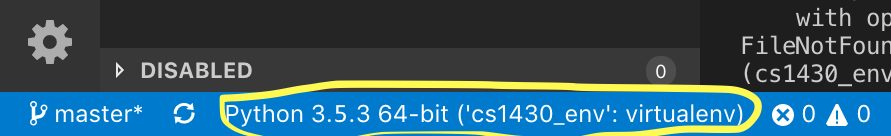
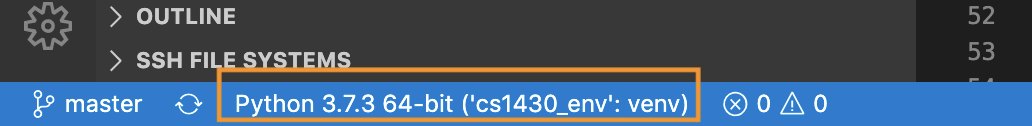
updated python tutorial

diff --git a/Python_Tutorial.tex b/Python_Tutorial.tex
@@ -2,8 +2,8 @@
 %
 % CSCI 1430 Python Tutorial
 %
-% This is a LaTeX document. LaTeX is a markup language for producing 
-% documents. Your first task is to compile this into a PDF document. 
+% This is a LaTeX document. LaTeX is a markup language for producing
+% documents. Your first task is to compile this into a PDF document.
 % 
 % TO COMPILE:
 %  pdflatex thisfile.tex
@@ -13,7 +13,7 @@
 % - Departmental machines have one installed.
 % - Personal laptops (all common OS): www.latex-project.org/get/
 %
-% If you need help with LaTeX, please come to office hours. 
+% If you need help with LaTeX, please come to office hours.
 % Or, there is plenty of help online:
 % https://en.wikibooks.org/wiki/LaTeX
 %
@@ -38,6 +38,7 @@
 \usepackage{fancyhdr}
 \usepackage{microtype}
 \usepackage{times}
+\usepackage{hyperref}
 % A good format for python code https://github.com/olivierverdier/python-latex-highlighting
 \usepackage{pythonhighlight}
 
@@ -74,7 +75,7 @@ The course uses Python as our language. As software library installation and man
 
 \subsection{Python version numbers}
 
-(Spring 2019) The class supports Python 3.5.3, which is the version installed on the CS department machines. Our Python virtual environment uses Python 3.5.3. Our Gradescope autograder uses the same virtual environment on Python 3.5.3.
+(Spring 2020) The class supports Python 3.7.3, which is the version installed on the CS department machines. Our Python virtual environment uses Python 3.7.3. Our Gradescope autograder uses the same virtual environment on Python 3.7.3.
 
 \emph{Python 2.7 is not supported by the class.}
 
@@ -88,47 +89,50 @@ Python with all dependencies needed for this course is already installed on the 
 $ source /course/cs1430/cs1430_env/bin/activate
 \end{verbatim}
 
-Deactivate the environment by using the following command. 
+Deactivate the environment by using the following command.
 \begin{verbatim}
 $ deactivate
 \end{verbatim}
 
-If you would like to work on your personal machine, there is a requirements.txt file at: 
+If you would like to work on your personal machine, there is a requirements.txt file \href{http://cs.brown.edu/courses/csci1430/gradescope/requirements.txt}{here}.
+Once you have Python 3.7 installed (see \hyperref[sec:local]{Working Locally}), you can use this file to install all needed libraries using the following command on your local computer:
 \begin{verbatim}
-/course/cs1430/cs1430_env/requirements.txt
-\end{verbatim} 
-which you can use to install all needed libraries using the following command on your local computer (with python 3.5). 
-\begin{verbatim}
-$ pip install -r requirements.txt
+$ pip3 install -r requirements.txt
 \end{verbatim}
 
-Pip is a package manager that allows us to easily install Python modules. In this scenario, the above command neatly reads a list of modules from requirements.txt and installs them all in a virtual environment. If you don't already have pip installed on your computer, you can follow the instructions here: \href{https://pip.pypa.io/en/stable/installing/}{https://pip.pypa.io/en/stable/installing/}.
+Pip is a package manager that allows us to easily install Python modules. In this scenario, the above command neatly reads a list of modules from requirements.txt and installs them all in a virtual environment. If you don't already have pip installed on your computer, you can follow the instructions \href{https://pip.pypa.io/en/stable/installing/}{here}.
 
 \subsection{Working Locally}
+\label{sec:local}
+First, make sure that you have the correct version of Python installed. You can get version 3.7.3 \href{https://www.python.org/downloads/release/python-373/}{here}. To check if it installed, you can run
+\begin{verbatim}
+$ python3.7 --version
+\end{verbatim}
+
 If you want to recreate the \texttt{cs1430\_env} to work locally on either a macOS or Linux system, you can use the \texttt{virtualenv} utility to create a new Python virtual environment.
 
 \textbf{WARNING:} before you hand in your assignments, make sure that your project still works using the original \texttt{cs1430\_env}. Otherwise, you may lose points during grading!
 
-To install \texttt{virtualenv}, run the following in a new terminal session (make sure that no other virtual environments are active).
+If you don't already have pip installed on your computer, you can follow the instructions \href{https://pip.pypa.io/en/stable/installing/}{here}. Then, to install \texttt{virtualenv}, run the following in a new terminal session (make sure that no other virtual environments are active).
 \begin{verbatim}
 $ pip3 install virtualenv
 \end{verbatim}
 
 Next, navigate to a directory of your choice (this could be the directory that contains all of your cs1430 projects) and run:
 \begin{verbatim}
-$ virtualenv --python=<PYTHON_EXE> venv
+$ virtualenv --python=python3.7 venv
 \end{verbatim}
 
-\texttt{PYTHON\_EXE} is the path to the Python executable that you wish to use in your virtual environment. The version of this Python executable should be at least 3.5.
+\texttt{python3.7} is the path to the Python executable that you wish to use in your virtual environment. The version of this Python executable should be at least 3.7.
 
 The virtualenv command above creates a new directory called \texttt{venv} that contains your new virtual env. You can activate this using the following command:
 \begin{verbatim}
 $ source ./venv/bin/activate
 \end{verbatim}
 
-Next install the necessary packages to your virtual environment by getting the appropriate \texttt{requirements.txt} and running:
+Next install the necessary packages to your virtual environment by getting the appropriate \texttt{requirements.txt} from  \href{http://cs.brown.edu/courses/csci1430/gradescope/requirements.txt}{here} and running:
 \begin{verbatim}
-(venv) $ pip install -r <path_to_requirements.txt>
+(venv) $ pip3 install -r <path_to_requirements.txt>
 \end{verbatim}
 
 Note that this must be run while your virtual environment is activated.
@@ -149,7 +153,7 @@ Likewise, when running \texttt{python} with Python 2.7 installed, then this may 
 $ python3 yourfile.py
 \end{verbatim}
 
-Another error you may run into, if you're running the virtual environment on Mac OS, is something like: ``No module named '\_tkinter'''. This seems to be an issue with the matplotlib module backend. If this happens, ensure that you include the following at the top of your Python code, when importing matplotlib. 
+Another error you may run into, if you're running the virtual environment on Mac OS, is something like: ``No module named '\_tkinter'''. This seems to be an issue with the matplotlib module backend. If this happens, ensure that you include the following at the top of your Python code, when importing matplotlib.
 \begin{python}
 import matplotlib
 matplotlib.use("TkAgg") # To run the virtual environment on MacOS. Otherwise, skip!
@@ -157,7 +161,7 @@ import matplotlib.pyplot as plt
 \end{python}
 
 \subsection{VS Code}
-VS Code is a GUI-based text editor and development environment. VS Code is already installed on departmental machines. After starting it, make sure to set ``Python.VenvPath'' to ``/course/cs1430/'' in your VS Code settings so that it can correctly detect our custom python virtual environment.
+VS Code is a GUI-based text editor and development environment. VS Code is already installed on departmental machines. After starting it, make sure to set ``Python.VenvPath'' to \texttt{/course/cs1430/} in your VS Code settings so that it can correctly detect our custom python virtual environment. You can open the settings window with Cmd + "," (Mac) or Ctrl + "," (Windows).
 
 \includegraphics[width=\linewidth]{VenvPath.png}
 
@@ -201,7 +205,7 @@ Please be aware of whitespace rules! Python doesn't require brackets to separate
 x = 1
 y = 2
 if x < y:
-x=3 # indentation error! 
+x=3 # indentation error!
 \end{python}
 but this one will:
 \begin{python}
@@ -219,7 +223,7 @@ Python lists and NumPy arrays are two different data structures. A Python list c
 
 \subsection{Indexing}
 To access or modify the first element of an array, the element at position 0 in the array is called. To see how this works, try the following exercise.
-In a Python interpreter, create a 5-element array $A$, with integers 1 through 5 as follows: 
+In a Python interpreter, create a 5-element array $A$, with integers 1 through 5 as follows:
 \begin{python}
 import numpy as np
 A = np.arange(1, 6)
@@ -243,9 +247,9 @@ image = io.imread('yourimage.jpg')
 
 The variable \texttt{image} now contains the color information of `yourimage.jpg' within a numpy array. If your chosen image has color, this array will be of size (height, width, 3), the 3 representing the 3 color channels. Try printing out one of the values in the array (ex: print(image[200,35,1]). You should notice that it consists of integers from 0 to 255.
 
-At times, you will want to alter the image in ways such that some of the entries become non-integer values, and thus you will want to convert the image to floating point format by using the numpy function. You might find it tempting to cast types using \href{https://docs.scipy.org/doc/numpy-1.15.0/reference/generated/numpy.ndarray.astype.html}{$astype$}. However, astype() violates typical assumptions made \emph{in other functions} about data type ranges, and this can lead to confusion when using built-in scikit-image processing functions. 
+At times, you will want to alter the image in ways such that some of the entries become non-integer values, and thus you will want to convert the image to floating point format by using the numpy function. You might find it tempting to cast types using \href{https://docs.scipy.org/doc/numpy-1.15.0/reference/generated/numpy.ndarray.astype.html}{$astype$}. However, astype() violates typical assumptions made \emph{in other functions} about data type ranges, and this can lead to confusion when using built-in scikit-image processing functions.
 
-For example, when using \texttt{matplotlib.pyplot.imshow}, Matplotlib assumes that the image pixel values are between 0 and 255 if the image is in integer format; if the image is in floating-point format, it is assumed that the pixel values are in between 0 and 1. Thus, as a general rule, when you convert an image to floating-point format, you should normalize the image so that all its entries are between 0 and 1; this helps prevent potential confusion. 
+For example, when using \texttt{matplotlib.pyplot.imshow}, Matplotlib assumes that the image pixel values are between 0 and 255 if the image is in integer format; if the image is in floating-point format, it is assumed that the pixel values are in between 0 and 1. Thus, as a general rule, when you convert an image to floating-point format, you should normalize the image so that all its entries are between 0 and 1; this helps prevent potential confusion.
 
 This is easiest done by using particular scikit-image functions that will convert safely between datatypes:
 \href{http://scikit-image.org/docs/dev/api/skimage.html#skimage.img_as_float32}{$img\_as\_float32$} to go from 8-bit unsigned byte [0,255] to 32-bit floating point; this function converts an array to floating-point format and then normalizes the array so that all of its values are between 0 and 1. OR, use \href{http://scikit-image.org/docs/dev/api/skimage.html#skimage.img_as_ubyte}{$img\_as\_ubyte$} to go the other way: from a floating point [0,1] image back to an 8-bit unsigned byte [0,255]. For instance, to convert just before saving an image to disk.
@@ -266,7 +270,7 @@ plt.imshow(image)
 plt.show()
 \end{python}
 
-The displayed image should look very strange; it should hardly resemble an image. This is because it has not been normalized. 
+The displayed image should look very strange; it should hardly resemble an image. This is because it has not been normalized.
 Now, try converting the image to floating-point format and normalize it from 0 to 1; then display the image:
 \begin{python}
 from skimage import img_as_float
@@ -299,7 +303,7 @@ image[:,100:200,0] = 1 # 'full' red
 The colon `:' indexes all elements in a particular dimension.
 Finally, we can assign green randomly to the first 100 rows:
 \begin{python}
-image[0:100,:,2] = np.random.randint(2, size=(100,400)) 
+image[0:100,:,2] = np.random.randint(2, size=(100,400))
 # choose random integer in range [0,2)
 \end{python}
 
@@ -311,7 +315,7 @@ plt.show()
 \end{python}
 
 \subsection{Color images vs.~Grayscale}
-Color images are often built of several stacked color channels, each of them representing value levels of the given channel. For example, RGB images are composed of three independent channels for red, green and blue primary color components. In contrast, a grayscale image (aka black and white image) is one in which the value of each pixel is a single sample, that is, it carries only intensity information. 
+Color images are often built of several stacked color channels, each of them representing value levels of the given channel. For example, RGB images are composed of three independent channels for red, green and blue primary color components. In contrast, a grayscale image (aka black and white image) is one in which the value of each pixel is a single sample, that is, it carries only intensity information.
 
 In Python, it is easy to convert an RGB image to grayscale. This can be achieved using scikit-image's \href{http://scikit-image.org/docs/stable/api/skimage.color.html#rgb2gray}{$rgb2gray$} function.
 
@@ -355,7 +359,7 @@ for i in range(10):
     A[i]=5
 \end{python}
 
-As we can see, the array A must be initialized with 10 elements before we can change those elements. To increase the size of the array, we can use methods like numpy.append(). 
+As we can see, the array A must be initialized with 10 elements before we can change those elements. To increase the size of the array, we can use methods like numpy.append().
 \begin{python}
 import numpy as np
 A = np.array([5]) # create an array that is too small...
@@ -427,8 +431,8 @@ The elapsed time between the variables start and end is then printed out. You sh
 
 \section{Debugging}
 \label{sec:debugger}
-There are a few debuggers that exist for Python. We support using VS Code with the Python extension. 
-To use this debugger, download the Python extension from the following page: \href{https://marketplace.visualstudio.com/items?itemName=ms-python.python}{https://marketplace.visualstudio.com/items?itemName=ms-python.python}. This extension also provides linting (syntax checking) and autocomplete. 
+There are a few debuggers that exist for Python. We support using VS Code with the Python extension.
+To use this debugger, download the Python extension from the following page: \href{https://marketplace.visualstudio.com/items?itemName=ms-python.python}{https://marketplace.visualstudio.com/items?itemName=ms-python.python}. This extension also provides linting (syntax checking) and autocomplete.
 
 Please see the following VS Code page for information on how to enter the debugger, and how to set and navigate breakpoints:
 \href{https://code.visualstudio.com/docs/editor/debugging}{VS Code Debugger}
